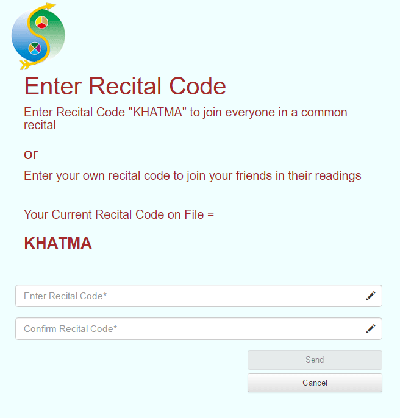
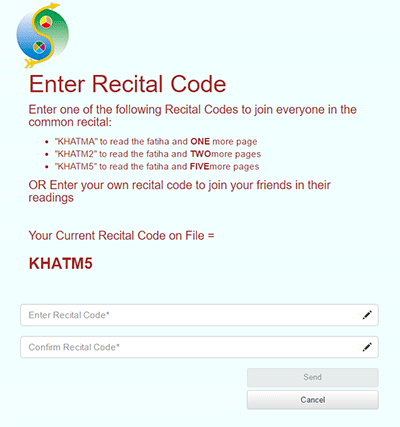
update201610222311

diff --git a/public/index.html b/public/index.html
@@ -3,7 +3,7 @@
 <head>
     <meta charset="utf-8">
     <meta http-equiv="X-UA-Compatible" content="IE-Edge">
-    <meta name="viewport" content="width=device-width, initial-scale=1">
+    <meta name="viewport" content="width=device-width, initial-scale=1, height=device-height">
     <!-- The above 3 meta tags *must* come first in the head; any other head
      content must come *after* these tags -->
     <title>Read 1 Page</title>
@@ -112,6 +112,7 @@
                 </div>
             </div>
         </form>
+
         <!---->
         <!--ENTER RECITAL CODE-->
         <!---->
@@ -119,9 +120,13 @@
             <div class="col-xs-11">
                 <div class="col-xs-12 col-sm-offset-1 col-sm-10 enterRecitalText">
                     <h1>Enter Recital Code</h1>
-                    <h4>Enter Recital Code "KHATMA" to join everyone in a common recital</h4>
-                    <h3>or</h3>
-                    <h4>Enter your own recital code to join your friends in their readings</h4>
+                    <h4>Enter one of the following Recital Codes to join everyone in the common recital:</h4>
+                    <ul>
+                        <li>"KHATMA" to read the fatiha and <strong>ONE</strong> more page</li>    
+                        <li>"KHATM2" to read the fatiha and <strong>TWO</strong> more pages</li>    
+                        <li>"KHATM5" to read the fatiha and <strong>FIVE</strong> more pages</li>    
+                    </ul>
+                    <h4>OR Enter your own recital code to join your friends in their readings</h4>
                     <br />
                     <h4>Your Current Recital Code on File = </h4> 
                     <h3><strong>{{crc}}</strong></h3>
@@ -385,9 +390,9 @@
                                     <li>This is a very simple form to be used to change your current recital code</li>
                                     <li>The form has two fields to enter the same recital code twice for added security</li>
                                     <li>Then press SEND</li>
-                                    <li>Once you change your recital code, the READ button on the hjome page will provide you pages according to the sequential readings of your current recital code</li>
-                                    <li>You can change back to the common recital code "KHATMA", or any other recital code as you please</li>
-                                    <li>You usually receive a recital code from a friend to join his recital or you may decide to generate your own recital code from menu option 2</li>
+                                    <li>Once you change your recital code, the READ button on the home page will provide you pages according to the sequential readings of your current recital code</li>
+                                    <li>You can change back to the common recital code "KHATMA", "KHATM2", "KHATM5", or any other recital code as you please</li>
+                                    <li>You may also receive a recital code from a friend to join his recital or you may decide to generate your own recital code from menu option 2</li>
                                 </ul>
                             </div>
                         </div>
@@ -463,6 +468,34 @@
                     </div>
                 </div>
             </form>
+            <div id="extraHeight"></div>
+            <div class="row row-content" ng-show="showR1Pbtn">
+                <div class="col-xs-push-1 col-xs-10" style="background-color:grey; border:1px solid red">
+                    <br />
+                    <div class="progress">
+                        <div class="progress-bar progress-bar-success progress-bar-striped progressText" role="progressbar"
+                             aria-valuenow="{{progressPercentages.K1}}" aria-valuemin="0" aria-valuemax="100" 
+                              ng-style="{'width':progressPercentages.K1+'%'}">
+                            KHATMA <span>{{progressPercentages.K1}}</span>%
+                        </div>
+                    </div>
+                    <div class="progress">
+                        <div class="progress-bar progress-bar-info progress-bar-striped progressText" role="progressbar"
+                             aria-valuenow="{{progressPercentages.K2}}" aria-valuemin="0" aria-valuemax="100" 
+                             ng-style="{'width':progressPercentages.K2+'%'}">
+                            KHATM2 <span>{{progressPercentages.K2}}</span>%
+                        </div>
+                    </div>
+                    <div class="progress">
+                        <div class="progress-bar progress-bar-warning progress-bar-striped progressText" role="progressbar"
+                             aria-valuenow="{{progressPercentages.K5}}" aria-valuemin="0" aria-valuemax="100" 
+                             ng-style="{'width':progressPercentages.K5+'%'}">
+                            KHATM5 <span>{{progressPercentages.K5}}</span>%
+                        </div>
+                    </div>
+                </div>
+            </div>
         </div>
 </body>
+
 </html>

diff --git a/public/js/controllers.js b/public/js/controllers.js
@@ -55,7 +55,11 @@ angular.module('r1p')
             pagesTotal: 0,
             fatihas: 0
         };
-            
+        $scope.progressPercentages = {
+            K1: 0,
+            K2: 0,
+            K5: 0
+        };
         // flags to show/ hide/ disable various forms, messages and the READ bnutton
         $scope.showR1Pbtn = false;
         $scope.elepicalMenu = false;
@@ -84,9 +88,25 @@ angular.module('r1p')
                 $scope.showR1Pbtn = true;
                 $scope.elepicalMenu = true;
             }
+            $scope.recitalCode = "KHATMA";
+            $http.get('/recitals/' + $scope.recitalCode)
+                .success(function (recital) {
+                    $scope.progressPercentages.K1 = (100 * (recital.page / 604)).toFixed(0);
+                    $scope.recitalCode = "KHATM2";
+                    $http.get('/recitals/' + $scope.recitalCode)
+                        .success(function (recital) {
+                            $scope.progressPercentages.K2 = (100 * (recital.page / 604)).toFixed(0);
+                            $scope.recitalCode = "KHATM5";
+                            $http.get('/recitals/' + $scope.recitalCode)
+                            .success(function (recital) {
+                                $scope.progressPercentages.K5 = (100 * (recital.page / 604)).toFixed(0);
+                                $scope.recitalCode = "";
+                            })
+                        })
+                });
         };
 
-        $timeout(initStart, 500);
+        $timeout(initStart, 250);
 
         $scope.CaptchaEntry = function () {
             //
@@ -311,7 +331,7 @@ angular.module('r1p')
                 n = $scope.currentRecitalRead.page;
                 $scope.pagePointer = n;
             }
-            $scope.myStyle.background = 'url("../images/' + n + '.png") no-repeat center top scroll';
+            $scope.myStyle.background = 'url("../images/' + n + '.jpg") no-repeat center top scroll';
             $scope.showR1Pbtn = false;
             $scope.elepicalMenu = false;
             $scope.showReadPointers = true;
@@ -322,7 +342,7 @@ angular.module('r1p')
             } else if ($scope.pagePointer < $scope.currentRecitalRead.page + $scope.currentRecitalRead.pages -1) {
                 $scope.pagePointer++;
             }
-            $scope.myStyle.background = 'url("../images/' + $scope.pagePointer + '.png") no-repeat center top scroll';
+            $scope.myStyle.background = 'url("../images/' + $scope.pagePointer + '.jpg") no-repeat center top scroll';
         };
         $scope.movePagesRight = function () {
             if ($scope.pagePointer == 0) {
@@ -330,7 +350,7 @@ angular.module('r1p')
             } else if ($scope.pagePointer > $scope.currentRecitalRead.page) {
                 $scope.pagePointer--;
             }
-            $scope.myStyle.background = 'url("../images/' + $scope.pagePointer + '.png") no-repeat center top scroll';
+            $scope.myStyle.background = 'url("../images/' + $scope.pagePointer + '.jpg") no-repeat center top scroll';
         };
         $scope.finishedCurrentRead = function () {
             $scope.currentRecitalRead.page = 0;

diff --git a/routes/recitalsRouter.js b/routes/recitalsRouter.js
@@ -60,10 +60,7 @@ recitalsRouter.get('/:crc', function (req, res, next) {
     Recitals.findOne({ code: req.params.crc }, function (err, recital) {
         if (err) return next(err);
         if (recital) {
-            res.status(200).json({
-                status: 'Recital Code Generation and Message Sent',
-                success: true
-            });
+            res.json(recital);
         } else {
             res.status(500).json({
                 err: 'Recital Code does not Exists'
@@ -76,10 +73,26 @@ recitalsRouter.post('/read1', function (req, res, next) {
     Recitals.findOne({ code: req.body.generatedCode }, function (err, recital) {
         if (err) return next(err);
         if (!recital) {
-            if (req.body.generatedCode = "KJHATMA") {
+            if (req.body.generatedCode = "KHATMA") {
+                var recite = new Recitals({});
+                recite.code = "KHATM2";
+                recite.page = 1;
+                recite.pages = 2;
+                recite.fatiha = true;
+                recite.save(function (err, recite) {
+                    if (err) return next(err);
+                });
+                var rec = new Recitals({});
+                rec.code = "KHATM5";
+                rec.page = 1;
+                rec.pages = 5;
+                rec.fatiha = true;
+                rec.save(function (err, rec) {
+                    if (err) return next(err);
+                });
                 var recital = new Recitals({});
                 recital.code = "KHATMA";
-                recital.page = 1;
+                recital.page = 33;
                 recital.pages = 1;
                 recital.fatiha = true;
                 recital.save(function (err, recital) {

diff --git a/public/css/styles.css b/public/css/styles.css
@@ -1,7 +1,7 @@
 html {
     margin:    0 auto;
     max-width: 755px;
-    max-height: 1080px;
+    min-height: 100%;
 }
 body {
     background-color:azure;
@@ -9,6 +9,9 @@ body {
 .verMenu{
     color:red;
     margin-left:30px;
+}
+#extraHeight{
+    height:600px;
 }
 #r1pbtn{
     margin-left:20px;
@@ -29,12 +32,20 @@ body {
     color:brown;
     font-size:14px;
 }
+.progressText {
+    color:blue;
+    font-weight:bold;
+}
 #pagesDiv{
     background-color:ButtonFace;
     border:1px solid brown;
 }
 .btnNav {
     margin-right:3px;
+}
+@media screen and (max-width: 700px) {
+        #extraHeight{
+        height:425px;}
 }
 @media screen and (max-width: 500px) {
    #r1pbtn { font-size: 12px;
@@ -53,4 +64,6 @@ body {
         -webkit-transform:scale(0.77);
         transform-origin:0 0;
         -webkit-transform-origin:0 0;}
+    #extraHeight{
+        height:50px;}
 }
